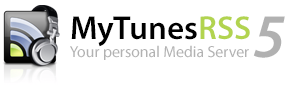
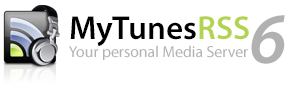
set version to 6.0
git-svn-id: svn://127.0.0.1/mytunesrss/trunk@8657 6cd82e91-2702-0410-863d-86aa3370aca5

Changed region(s): [[0.2172, 0.1591, 0.9931, 0.7273], [0.4345, 0.1818, 0.4655, 0.2273], [0.3724, 0.1818, 0.4034, 0.2273]]

diff --git a/etc/readme.html b/etc/readme.html
@@ -12,15 +12,15 @@
         }
     </style>
     <meta http-equiv="Content-Type" content="text/html; charset=UTF-8" />
-    <title>MyTunesRSS v5.5 Readme</title>
+    <title>MyTunesRSS v6.0 Readme</title>
 </head>
 
 <body>
 
-<h1>MyTunesRSS v5.5</h1>
+<h1>MyTunesRSS v6.0</h1>
 
 <p>
-    MyTunesRSS 5.5 is a commercial product with no free version. You may evaluate MyTunesRSS for 30 days without
+    MyTunesRSS 6.0 is a commercial product with no free version. You may evaluate MyTunesRSS for 30 days without
     a license. Please visit the Codewave website for buying a license.
 </p>
 
